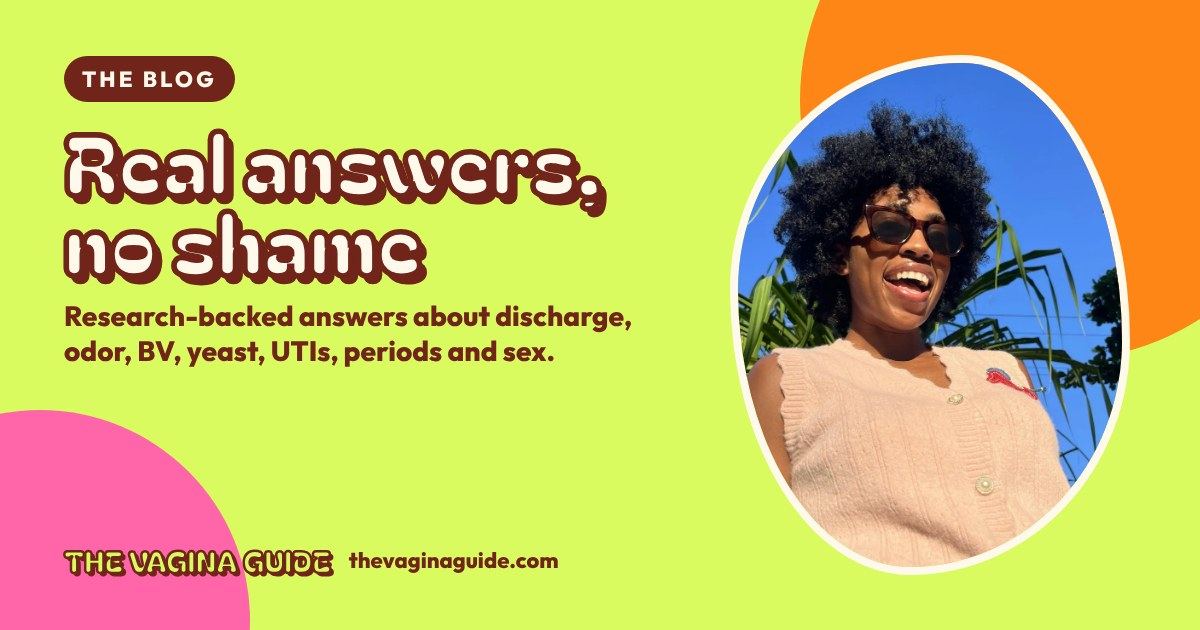
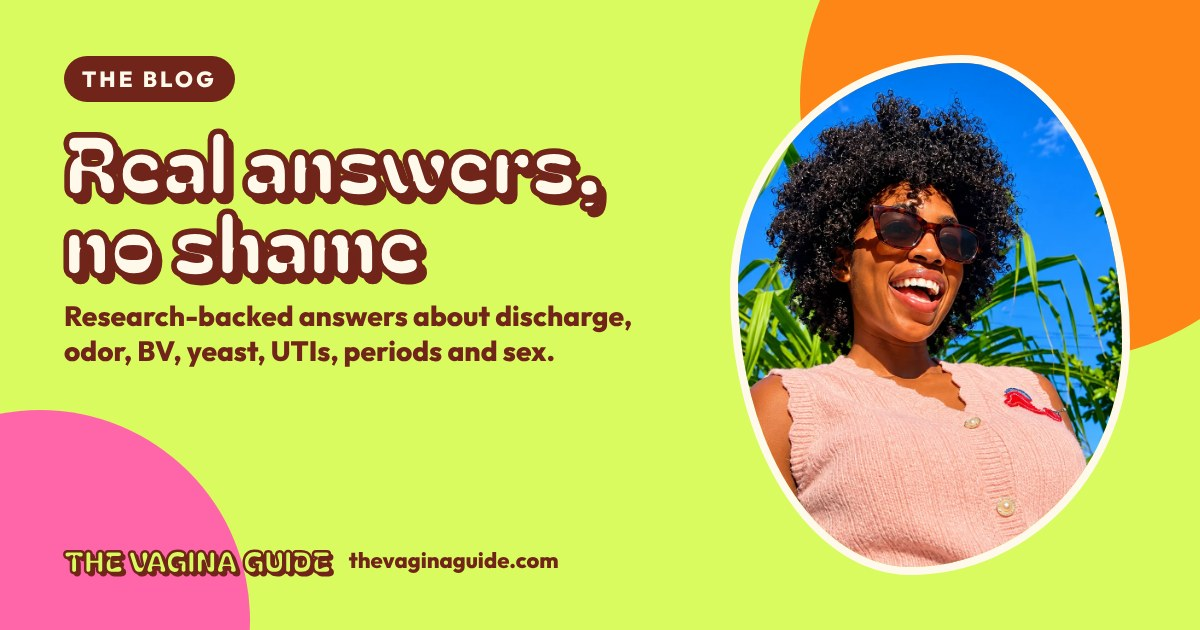
Add new photos: updated pink-vest shot on home + blog, sunglasses shot on Work With Me hero; refresh share thumbnails
Claude-Session: https://claude.ai/code/session_015Z78HqqoimnSZLBJKcrYp7

Changed region(s): [[0.6167, 0.0905, 0.9558, 0.9048]]

diff --git a/work-with-me/index.html b/work-with-me/index.html
@@ -17,10 +17,10 @@ pintrk('load','2612737819620');pintrk('page');
 <meta property="og:title" content="Work with me | The Vagina Guide">
 <meta property="og:description" content="Partner with The Vagina Guide: 191K followers, 77% women, 80% aged 18-34.">
 <meta property="og:url" content="https://thevaginaguide.com/work-with-me/">
-<meta property="og:image" content="https://thevaginaguide.com/assets/img/og/work-with-me.jpg?v=1">
+<meta property="og:image" content="https://thevaginaguide.com/assets/img/og/work-with-me.jpg?v=2">
 <meta property="og:image:width" content="1200">
 <meta property="og:image:height" content="630">
-<meta name="twitter:image" content="https://thevaginaguide.com/assets/img/og/work-with-me.jpg?v=1">
+<meta name="twitter:image" content="https://thevaginaguide.com/assets/img/og/work-with-me.jpg?v=2">
 <meta name="twitter:card" content="summary_large_image">
 <meta name="theme-color" content="#F84E37">
 <link rel="icon" href="/favicon.ico" sizes="48x48">
@@ -51,11 +51,14 @@ pintrk('load','2612737819620');pintrk('page');
 </header>
 <main id="main">
 
-<section class="section bg-red"><div class="wrap stack center" style="max-width:900px">
-  <p class="eyebrow" style="color:var(--lime)">Work with me</p>
-  <h1 style="color:var(--cream)">Brands, let's get intimate</h1>
-  <p class="lede" style="color:#fff">I make women's health content that people actually finish watching, save and share, and buy from.</p>
-  <a class="btn btn--lime" href="#media-kit">Get my media kit</a>
+<section class="section bg-red"><div class="wrap split">
+  <div class="stack">
+    <p class="eyebrow" style="color:var(--lime)">Work with me</p>
+    <h1 style="color:var(--cream)">Brands, let's get intimate</h1>
+    <p class="lede" style="color:#fff">I make women's health content that people actually finish watching, save and share, and buy from.</p>
+    <a class="btn btn--lime" href="#media-kit" style="align-self:flex-start">Get my media kit</a>
+  </div>
+  <div class="media"><img class="blob blob--2" style="border-color:var(--lime);object-position:center 30%" src="/assets/img/work.webp" width="460" height="537" alt="Taja adjusting her sunglasses and blowing a kiss, palm leaves and blue sky behind her" fetchpriority="high"></div>
 </div></section>
 <section class="stats" aria-label="Audience"><div class="wrap stats__grid">
   <div class="stat"><b>191K</b><span>TikTok followers</span></div>

diff --git a/index.html b/index.html
@@ -17,10 +17,10 @@ pintrk('load','2612737819620');pintrk('page');
 <meta property="og:title" content="The Vagina Guide | Women's health, minus the shame">
 <meta property="og:description" content="Real, research-backed answers about discharge, odor, BV, yeast infections and periods from Taja, the women's health educator 191K women trust on TikTok.">
 <meta property="og:url" content="https://thevaginaguide.com/">
-<meta property="og:image" content="https://thevaginaguide.com/assets/img/og/home.jpg?v=1">
+<meta property="og:image" content="https://thevaginaguide.com/assets/img/og/home.jpg?v=2">
 <meta property="og:image:width" content="1200">
 <meta property="og:image:height" content="630">
-<meta name="twitter:image" content="https://thevaginaguide.com/assets/img/og/home.jpg?v=1">
+<meta name="twitter:image" content="https://thevaginaguide.com/assets/img/og/home.jpg?v=2">
 <meta name="twitter:card" content="summary_large_image">
 <meta name="theme-color" content="#F84E37">
 <link rel="icon" href="/favicon.ico" sizes="48x48">
@@ -114,7 +114,7 @@ pintrk('load','2612737819620');pintrk('page');
     <div class="chips"><a class="chip" href="/blog/">BV</a><a class="chip" href="/blog/">Yeast</a><a class="chip" href="/blog/">UTIs</a><a class="chip" href="/blog/">Periods</a><a class="chip" href="/blog/">Odor &amp; pH</a><a class="chip" href="/blog/">Sex &amp; comfort</a></div>
     <a class="btn btn--red" href="/blog/" style="align-self:flex-start">Read the blog</a>
   </div>
-  <div class="media"><img class="blob blob--2" style="border-color:var(--pink)" src="/assets/img/blog.webp" width="460" height="537" loading="lazy" alt="Taja in sunglasses and a pink sweater vest, laughing"></div>
+  <div class="media"><img class="blob blob--2" style="border-color:var(--pink)" src="/assets/img/blog-v2.webp" width="460" height="537" loading="lazy" alt="Taja in sunglasses and a pink sweater vest, laughing under a blue sky"></div>
 </div></section>
 
 <section class="section"><div class="wrap stack" style="gap:48px">

diff --git a/blog/index.html b/blog/index.html
@@ -17,10 +17,10 @@ pintrk('load','2612737819620');pintrk('page');
 <meta property="og:title" content="Blog | The Vagina Guide">
 <meta property="og:description" content="Research-backed answers about discharge, odor, BV, yeast, UTIs, periods and sex.">
 <meta property="og:url" content="https://thevaginaguide.com/blog/">
-<meta property="og:image" content="https://thevaginaguide.com/assets/img/og/blog.jpg?v=1">
+<meta property="og:image" content="https://thevaginaguide.com/assets/img/og/blog.jpg?v=2">
 <meta property="og:image:width" content="1200">
 <meta property="og:image:height" content="630">
-<meta name="twitter:image" content="https://thevaginaguide.com/assets/img/og/blog.jpg?v=1">
+<meta name="twitter:image" content="https://thevaginaguide.com/assets/img/og/blog.jpg?v=2">
 <meta name="twitter:card" content="summary_large_image">
 <meta name="theme-color" content="#F84E37">
 <link rel="icon" href="/favicon.ico" sizes="48x48">
@@ -58,7 +58,7 @@ pintrk('load','2612737819620');pintrk('page');
     <p class="lede">Your DMs, answered properly. Backed by research, explained like your smartest friend would.</p>
     <div class="chips"><a class="chip" href="/blog/">BV</a><a class="chip" href="/blog/">Yeast</a><a class="chip" href="/blog/">UTIs</a><a class="chip" href="/blog/">Periods</a><a class="chip" href="/blog/">Odor &amp; pH</a><a class="chip" href="/blog/">Sex &amp; comfort</a></div>
   </div>
-  <div class="media"><img class="blob blob--2" style="border-color:var(--pink)" src="/assets/img/blog.webp" width="460" height="537" alt="Taja in sunglasses and a pink sweater vest, laughing"></div>
+  <div class="media"><img class="blob blob--2" style="border-color:var(--pink)" src="/assets/img/blog-v2.webp" width="460" height="537" alt="Taja in sunglasses and a pink sweater vest, laughing"></div>
 </div></section>
 <section class="section"><div class="wrap stack" style="gap:32px">
   <h2>First posts are on the way</h2>

diff --git a/doctor-checklist/index.html b/doctor-checklist/index.html
@@ -17,10 +17,10 @@ pintrk('load','2612737819620');pintrk('page');
 <meta property="og:title" content="Free Doctor Visit Prep Checklist (Fillable PDF) | The Vagina Guide">
 <meta property="og:description" content="Free fillable checklist: what to do before your gyno visit, a symptom snapshot, the questions to ask, and what to say if you feel brushed off.">
 <meta property="og:url" content="https://thevaginaguide.com/doctor-checklist/">
-<meta property="og:image" content="https://thevaginaguide.com/assets/img/og/doctor-checklist.jpg?v=1">
+<meta property="og:image" content="https://thevaginaguide.com/assets/img/og/doctor-checklist.jpg?v=2">
 <meta property="og:image:width" content="1200">
 <meta property="og:image:height" content="630">
-<meta name="twitter:image" content="https://thevaginaguide.com/assets/img/og/doctor-checklist.jpg?v=1">
+<meta name="twitter:image" content="https://thevaginaguide.com/assets/img/og/doctor-checklist.jpg?v=2">
 <meta name="twitter:card" content="summary_large_image">
 <meta name="theme-color" content="#F84E37">
 <link rel="icon" href="/favicon.ico" sizes="48x48">

diff --git a/ingredients/index.html b/ingredients/index.html
@@ -17,10 +17,10 @@ pintrk('load','2612737819620');pintrk('page');
 <meta property="og:title" content="Free: 15 Ingredients to Never Put Near Your Vagina | The Vagina Guide">
 <meta property="og:description" content="Free guide + wallet card: the 15 ingredients behind itching, burning and recurring BV, where they hide, and what to use instead.">
 <meta property="og:url" content="https://thevaginaguide.com/ingredients/">
-<meta property="og:image" content="https://thevaginaguide.com/assets/img/og/ingredients.jpg?v=1">
+<meta property="og:image" content="https://thevaginaguide.com/assets/img/og/ingredients.jpg?v=2">
 <meta property="og:image:width" content="1200">
 <meta property="og:image:height" content="630">
-<meta name="twitter:image" content="https://thevaginaguide.com/assets/img/og/ingredients.jpg?v=1">
+<meta name="twitter:image" content="https://thevaginaguide.com/assets/img/og/ingredients.jpg?v=2">
 <meta name="twitter:card" content="summary_large_image">
 <meta name="theme-color" content="#F84E37">
 <link rel="icon" href="/favicon.ico" sizes="48x48">

diff --git a/guides/pelvic/index.html b/guides/pelvic/index.html
@@ -17,10 +17,10 @@ pintrk('load','2612737819620');pintrk('page');
 <meta property="og:title" content="The Pelvic Floor Strength Guide ($24 PDF guide) | The Vagina Guide">
 <meta property="og:description" content="Stop leaks, feel more, get stronger. Stop leaks, feel more, get stronger. Instant PDF download from The Vagina Guide.">
 <meta property="og:url" content="https://thevaginaguide.com/guides/pelvic/">
-<meta property="og:image" content="https://thevaginaguide.com/assets/img/og/guide-pelvic.jpg?v=1">
+<meta property="og:image" content="https://thevaginaguide.com/assets/img/og/guide-pelvic.jpg?v=2">
 <meta property="og:image:width" content="1200">
 <meta property="og:image:height" content="630">
-<meta name="twitter:image" content="https://thevaginaguide.com/assets/img/og/guide-pelvic.jpg?v=1">
+<meta name="twitter:image" content="https://thevaginaguide.com/assets/img/og/guide-pelvic.jpg?v=2">
 <meta name="twitter:card" content="summary_large_image">
 <meta name="theme-color" content="#F84E37">
 <link rel="icon" href="/favicon.ico" sizes="48x48">

diff --git a/guides/odor/index.html b/guides/odor/index.html
@@ -17,10 +17,10 @@ pintrk('load','2612737819620');pintrk('page');
 <meta property="og:title" content="The Vaginal Odor & pH Guide ($17 PDF guide) | The Vagina Guide">
 <meta property="og:description" content="Know what's normal. Fix what's not.. Know what's normal, fix what's not. Instant PDF download from The Vagina Guide.">
 <meta property="og:url" content="https://thevaginaguide.com/guides/odor/">
-<meta property="og:image" content="https://thevaginaguide.com/assets/img/og/guide-odor.jpg?v=1">
+<meta property="og:image" content="https://thevaginaguide.com/assets/img/og/guide-odor.jpg?v=2">
 <meta property="og:image:width" content="1200">
 <meta property="og:image:height" content="630">
-<meta name="twitter:image" content="https://thevaginaguide.com/assets/img/og/guide-odor.jpg?v=1">
+<meta name="twitter:image" content="https://thevaginaguide.com/assets/img/og/guide-odor.jpg?v=2">
 <meta name="twitter:card" content="summary_large_image">
 <meta name="theme-color" content="#F84E37">
 <link rel="icon" href="/favicon.ico" sizes="48x48">

diff --git a/guides/yeast/index.html b/guides/yeast/index.html
@@ -17,10 +17,10 @@ pintrk('load','2612737819620');pintrk('page');
 <meta property="og:title" content="Bye Bye, Yeast Infection ($19 PDF guide) | The Vagina Guide">
 <meta property="og:description" content="Relief now, fewer repeats later. Relief now, fewer repeats later. Instant PDF download from The Vagina Guide.">
 <meta property="og:url" content="https://thevaginaguide.com/guides/yeast/">
-<meta property="og:image" content="https://thevaginaguide.com/assets/img/og/guide-yeast.jpg?v=1">
+<meta property="og:image" content="https://thevaginaguide.com/assets/img/og/guide-yeast.jpg?v=2">
 <meta property="og:image:width" content="1200">
 <meta property="og:image:height" content="630">
-<meta name="twitter:image" content="https://thevaginaguide.com/assets/img/og/guide-yeast.jpg?v=1">
+<meta name="twitter:image" content="https://thevaginaguide.com/assets/img/og/guide-yeast.jpg?v=2">
 <meta name="twitter:card" content="summary_large_image">
 <meta name="theme-color" content="#F84E37">
 <link rel="icon" href="/favicon.ico" sizes="48x48">

diff --git a/start-here/index.html b/start-here/index.html
@@ -17,10 +17,10 @@ pintrk('load','2612737819620');pintrk('page');
 <meta property="og:title" content="Free Discharge Color & Smell Decoder | The Vagina Guide">
 <meta property="og:description" content="Get the free Discharge Color & Smell Decoder: what 8 colors and 8 smells mean, and exactly when to see a doctor.">
 <meta property="og:url" content="https://thevaginaguide.com/start-here/">
-<meta property="og:image" content="https://thevaginaguide.com/assets/img/og/start-here.jpg?v=1">
+<meta property="og:image" content="https://thevaginaguide.com/assets/img/og/start-here.jpg?v=2">
 <meta property="og:image:width" content="1200">
 <meta property="og:image:height" content="630">
-<meta name="twitter:image" content="https://thevaginaguide.com/assets/img/og/start-here.jpg?v=1">
+<meta name="twitter:image" content="https://thevaginaguide.com/assets/img/og/start-here.jpg?v=2">
 <meta name="twitter:card" content="summary_large_image">
 <meta name="theme-color" content="#F84E37">
 <link rel="icon" href="/favicon.ico" sizes="48x48">

diff --git a/guides/uti/index.html b/guides/uti/index.html
@@ -17,10 +17,10 @@ pintrk('load','2612737819620');pintrk('page');
 <meta property="og:title" content="The UTI Prevention Playbook ($17 PDF guide) | The Vagina Guide">
 <meta property="og:description" content="Stop the burn before it starts. Stop the burn before it starts. Instant PDF download from The Vagina Guide.">
 <meta property="og:url" content="https://thevaginaguide.com/guides/uti/">
-<meta property="og:image" content="https://thevaginaguide.com/assets/img/og/guide-uti.jpg?v=1">
+<meta property="og:image" content="https://thevaginaguide.com/assets/img/og/guide-uti.jpg?v=2">
 <meta property="og:image:width" content="1200">
 <meta property="og:image:height" content="630">
-<meta name="twitter:image" content="https://thevaginaguide.com/assets/img/og/guide-uti.jpg?v=1">
+<meta name="twitter:image" content="https://thevaginaguide.com/assets/img/og/guide-uti.jpg?v=2">
 <meta name="twitter:card" content="summary_large_image">
 <meta name="theme-color" content="#F84E37">
 <link rel="icon" href="/favicon.ico" sizes="48x48">

diff --git a/guides/period/index.html b/guides/period/index.html
@@ -17,10 +17,10 @@ pintrk('load','2612737819620');pintrk('page');
 <meta property="og:title" content="The Period Prep Blueprint ($17 PDF guide) | The Vagina Guide">
 <meta property="og:description" content="Your easiest period yet. Your easiest period yet. Instant PDF download from The Vagina Guide.">
 <meta property="og:url" content="https://thevaginaguide.com/guides/period/">
-<meta property="og:image" content="https://thevaginaguide.com/assets/img/og/guide-period.jpg?v=1">
+<meta property="og:image" content="https://thevaginaguide.com/assets/img/og/guide-period.jpg?v=2">
 <meta property="og:image:width" content="1200">
 <meta property="og:image:height" content="630">
-<meta name="twitter:image" content="https://thevaginaguide.com/assets/img/og/guide-period.jpg?v=1">
+<meta name="twitter:image" content="https://thevaginaguide.com/assets/img/og/guide-period.jpg?v=2">
 <meta name="twitter:card" content="summary_large_image">
 <meta name="theme-color" content="#F84E37">
 <link rel="icon" href="/favicon.ico" sizes="48x48">

diff --git a/guides/bv/index.html b/guides/bv/index.html
@@ -17,10 +17,10 @@ pintrk('load','2612737819620');pintrk('page');
 <meta property="og:title" content="BV: Break the Cycle ($19 PDF guide) | The Vagina Guide">
 <meta property="og:description" content="Stop the monthly BV comeback. Stop the monthly BV comeback. Instant PDF download from The Vagina Guide.">
 <meta property="og:url" content="https://thevaginaguide.com/guides/bv/">
-<meta property="og:image" content="https://thevaginaguide.com/assets/img/og/guide-bv.jpg?v=1">
+<meta property="og:image" content="https://thevaginaguide.com/assets/img/og/guide-bv.jpg?v=2">
 <meta property="og:image:width" content="1200">
 <meta property="og:image:height" content="630">
-<meta name="twitter:image" content="https://thevaginaguide.com/assets/img/og/guide-bv.jpg?v=1">
+<meta name="twitter:image" content="https://thevaginaguide.com/assets/img/og/guide-bv.jpg?v=2">
 <meta name="twitter:card" content="summary_large_image">
 <meta name="theme-color" content="#F84E37">
 <link rel="icon" href="/favicon.ico" sizes="48x48">
